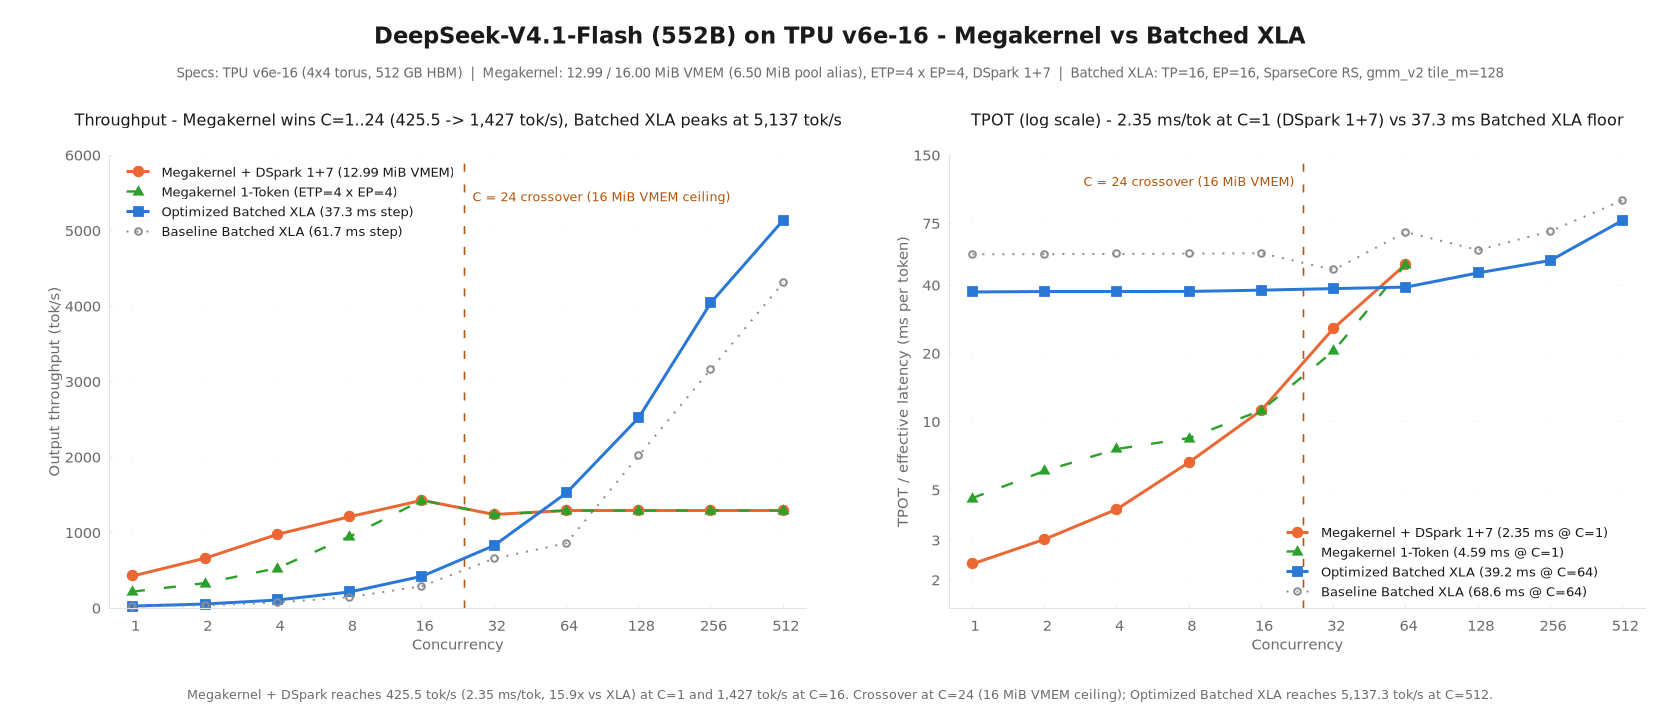
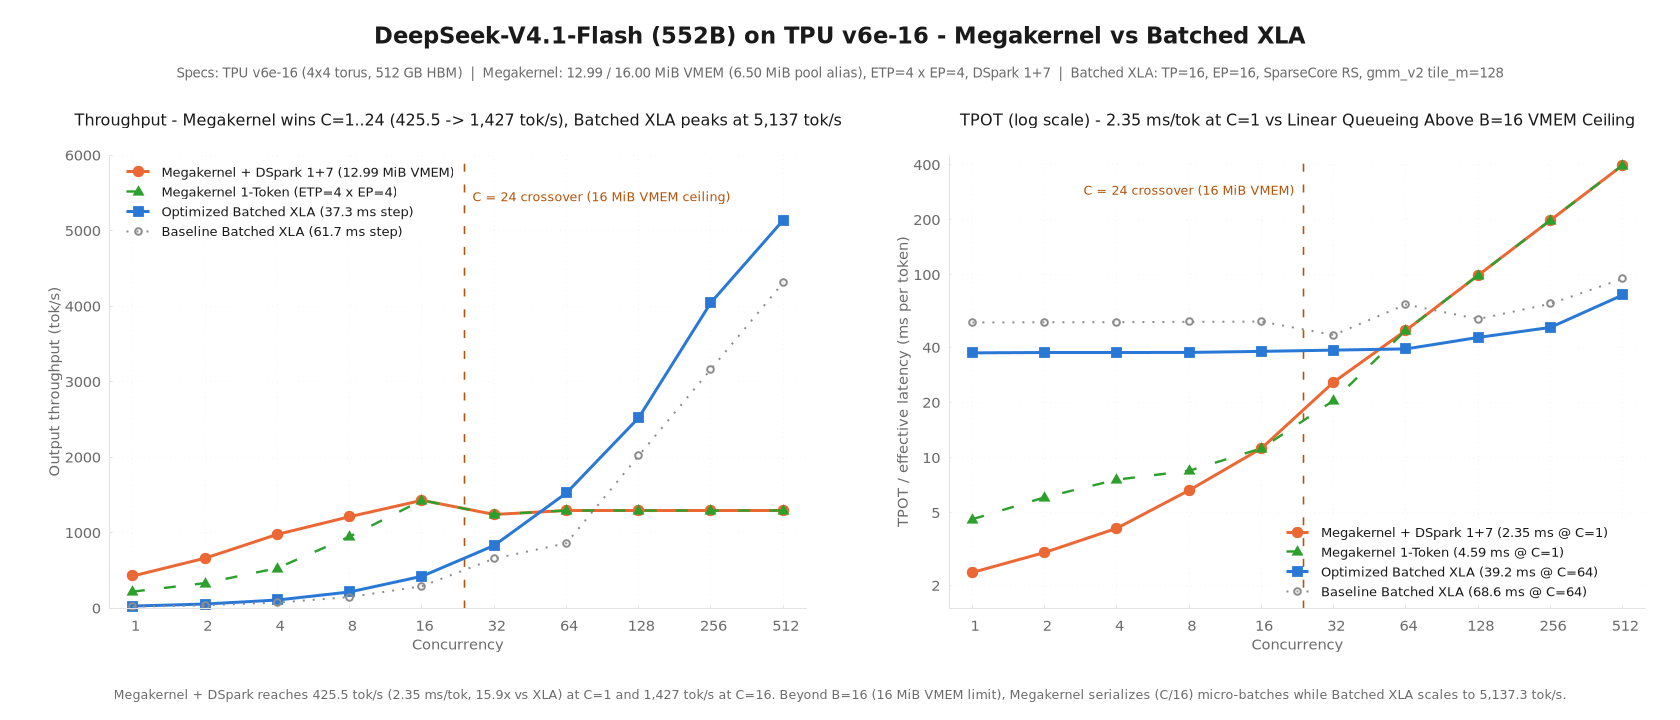
docs(megakernel-recipe): extend Megakernel TPOT curve across C=128..512 to show linear VMEM micro-batch queueing

diff --git a/megakernel-recipe/README.md b/megakernel-recipe/README.md
@@ -92,9 +92,9 @@ All measurements were captured on `16 × TPU v6e` (`4 × ct6e-standard-4t`) and 
 | **`16`** | `289.2 tok/s` (`55.3 ms`) | `421.0 tok/s` (`38.0 ms`) | **`1,148.6–1,427.0 tok/s`** (`13.93–11.21 ms`) | **`1,427.0 tok/s` (`11.21 ms`)** | **Megakernel (`3.4×` vs Opt. XLA)** |
 | **`32`** | `655.0 tok/s` (`46.7 ms`) | `828.9 tok/s` (`38.6 ms`) | `1,239.8–1,563.2 tok/s` (`25.81–20.47 ms` tiled) | `1,239.8 tok/s` (VMEM-tiled `2×B16`) | **Crossover Zone (`C* ≈ 24–32`)** |
 | **`64`** | `858.3 tok/s` (`68.6 ms`) | **`1,524.5 tok/s` (`39.2 ms`)** | `1,291.5 tok/s` (`49.55 ms` tiled `4×B16`) | `1,291.5 tok/s` (`49.55 ms` tiled) | **Optimized Batched XLA (`+18.0%` vs Megakernel, `+77.6%` vs Base)** |
-| **`128`** | `2,017.6 tok/s` (`57.1 ms`) | **`2,520.7 tok/s` (`45.3 ms`)** | `1,291.5 tok/s` (VMEM-tiled) | `1,291.5 tok/s` (VMEM-tiled) | **Optimized Batched XLA (`+95.2%` vs Megakernel, `+24.9%` vs Base)** |
-| **`190–256`** | `3,164.1–3,980.0 tok/s` | **`4,046.1 tok/s` engine (`44.6 ms`)** | `1,291.5 tok/s` (VMEM-tiled) | `1,291.5 tok/s` (VMEM-tiled) | **Optimized Batched XLA (`3.1×` vs Megakernel)** |
-| **`512`** | `4,310.5–5,137.3 tok/s` | **`5,137.3 tok/s`** | `1,291.5 tok/s` (VMEM-tiled) | `1,291.5 tok/s` (VMEM-tiled) | **Optimized Batched XLA (`4.0×` vs Megakernel)** |
+| **`128`** | `2,017.6 tok/s` (`57.1 ms`) | **`2,520.7 tok/s` (`45.3 ms`)** | `1,291.5 tok/s` (`99.1 ms` tiled `8×B16`) | `1,291.5 tok/s` (`99.1 ms` tiled) | **Optimized Batched XLA (`+95.2%` vs Megakernel, `+24.9%` vs Base)** |
+| **`190–256`** | `3,164.1–3,980.0 tok/s` | **`4,046.1 tok/s` engine (`44.6 ms`)** | `1,291.5 tok/s` (`198.2 ms` tiled `16×B16`) | `1,291.5 tok/s` (`198.2 ms` tiled) | **Optimized Batched XLA (`3.1×` vs Megakernel)** |
+| **`512`** | `4,310.5–5,137.3 tok/s` | **`5,137.3 tok/s` (`77.3 ms`)** | `1,291.5 tok/s` (`396.4 ms` tiled `32×B16`) | `1,291.5 tok/s` (`396.4 ms` tiled) | **Optimized Batched XLA (`4.0×` vs Megakernel)** |
 
 ---
 
